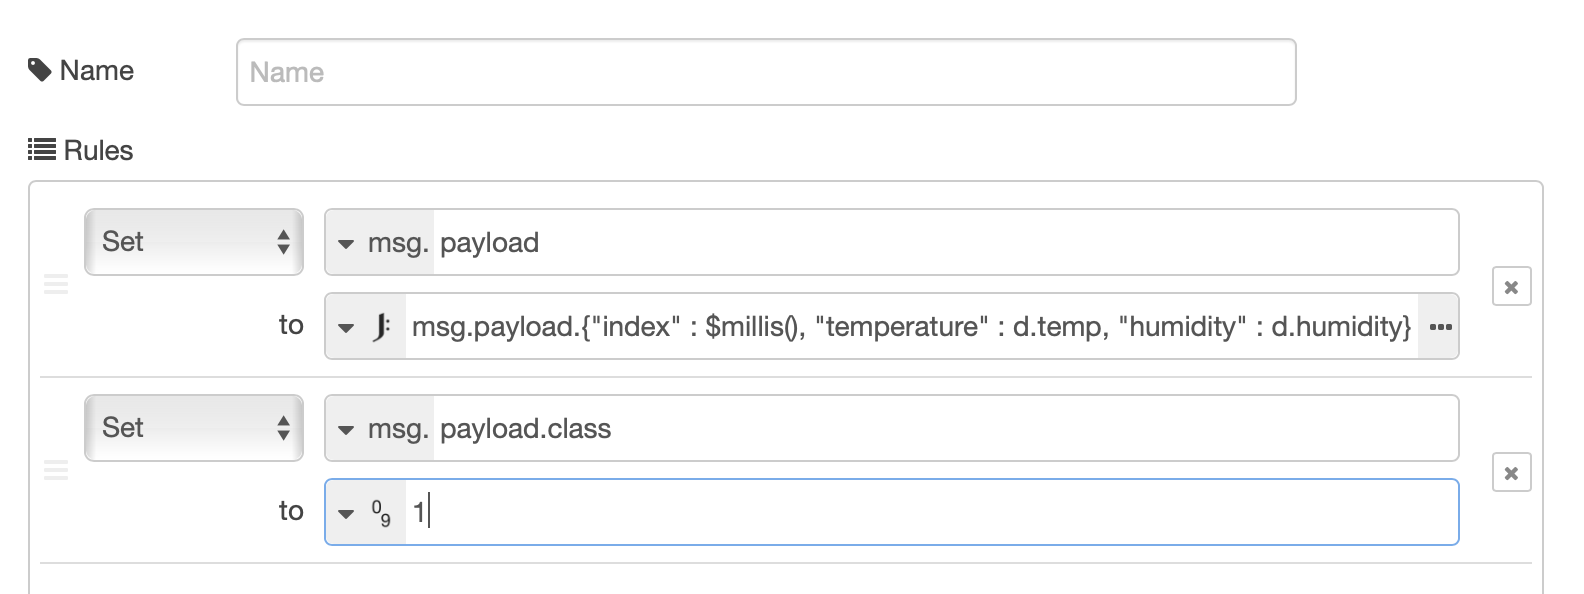
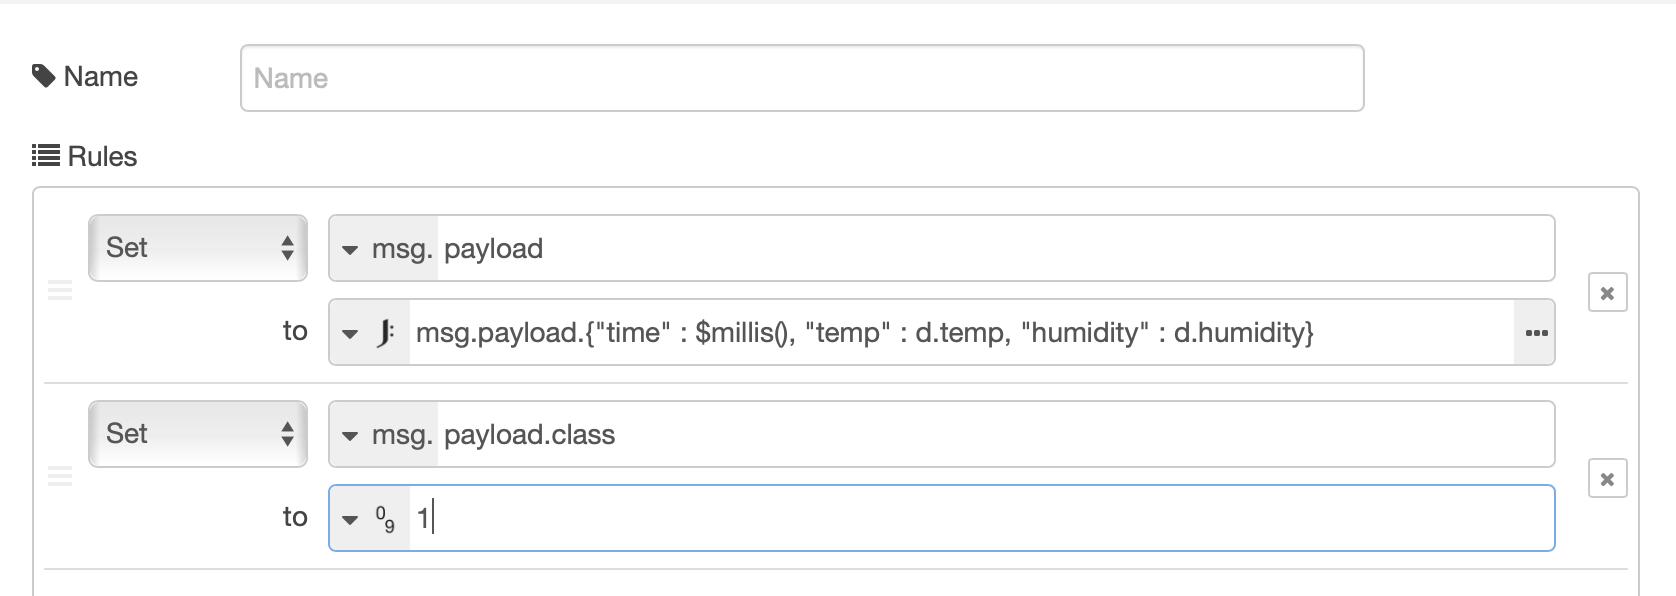
Refactored so training and historic databases use same property names

diff --git a/en/part4/TRAINING.md b/en/part4/TRAINING.md
@@ -42,7 +42,7 @@ To create the flow, open up the Node-RED editor running on the IBM Cloud (as use
 2. Connect the **ibmiot** node to the **change** node and then the **change** node to the **debug** node.  DO NOT connect the **cloudant out** node yet.
 3. Configure the **ibmiot** node to use the cloud service and listen to all JSON data from all devices as shown: ![nodered ibmiot node config](screenshots/nr-ibmiot-config.png)
 4. Configure the **change** node to have 2 set rules.  The first rule reformats the data received from the IoT platform, to flatten it and add a timestamp.  The second rule adds the class property and initially sets it to class 0:
-   - set msg.payload to JSONata expression ```msg.payload.{"index" : $millis(),"temperature" : d.temp, "humidity" : d.humidity}```
+   - set msg.payload to JSONata expression ```msg.payload.{"time" : $millis(),"temp" : d.temperature, "humidity" : d.humidity}```
    - set msg.payload.class to number 0  
    as shown : ![nodered change node config](screenshots/nr-change-config.png)
 5. Configure the **cloudant out** node to use the cloud service and set the database name to training and ensure the operation is set to insert and to only store msg.payload object as shown: ![nodered cloudant out node config](screenshots/nr-cloudant-config.png)
@@ -52,15 +52,15 @@ You should have a flow that looks like this: ![nodered flow](screenshots/nr-flow
 If your flow is not working then you can import the sample flow, which is also available in the [flows](flows) folder in part4 of the repo :
 
 ```JSON
-[{"id":"f46b4c67.73cb2","type":"ibmiot in","z":"deb0d57.1c46528","authentication":"boundService","apiKey":"","inputType":"evt","logicalInterface":"","ruleId":"","deviceId":"","applicationId":"","deviceType":"+","eventType":"+","commandType":"","format":"json","name":"IBM IoT","service":"registered","allDevices":true,"allApplications":"","allDeviceTypes":true,"allLogicalInterfaces":"","allEvents":true,"allCommands":"","allFormats":"","qos":0,"x":130,"y":100,"wires":[["e09fb3f3.79f538"]]},{"id":"e09fb3f3.79f538","type":"change","z":"deb0d57.1c46528","name":"","rules":[{"t":"set","p":"payload","pt":"msg","to":"msg.payload.{\"index\" : $millis(), \"temperature\" : d.temp, \"humidity\" : d.humidity} ","tot":"jsonata"},{"t":"set","p":"payload.class","pt":"msg","to":"0","tot":"num"}],"action":"","property":"","from":"","to":"","reg":false,"x":280,"y":100,"wires":[["84be0f97.8f672"]]},{"id":"84be0f97.8f672","type":"debug","z":"deb0d57.1c46528","name":"","active":true,"tosidebar":true,"console":false,"tostatus":false,"complete":"false","x":450,"y":140,"wires":[]},{"id":"5a8d3b21.87bb3c","type":"cloudant out","z":"deb0d57.1c46528","name":"","cloudant":"","database":"training","service":"bi-ESP8266WorkshopCourse-cloudantNoSQLDB","payonly":false,"operation":"insert","x":460,"y":100,"wires":[]}]
+[{"id":"f46b4c67.73cb2","type":"ibmiot in","z":"deb0d57.1c46528","authentication":"boundService","apiKey":"","inputType":"evt","logicalInterface":"","ruleId":"","deviceId":"","applicationId":"","deviceType":"+","eventType":"+","commandType":"","format":"json","name":"IBM IoT","service":"registered","allDevices":true,"allApplications":"","allDeviceTypes":true,"allLogicalInterfaces":"","allEvents":true,"allCommands":"","allFormats":"","qos":0,"x":130,"y":100,"wires":[["e09fb3f3.79f538"]]},{"id":"e09fb3f3.79f538","type":"change","z":"deb0d57.1c46528","name":"","rules":[{"t":"set","p":"payload","pt":"msg","to":"msg.payload.{\"time\" : $millis(), \"temp\" : d.temp, \"humidity\" : d.humidity} ","tot":"jsonata"},{"t":"set","p":"payload.class","pt":"msg","to":"0","tot":"num"}],"action":"","property":"","from":"","to":"","reg":false,"x":280,"y":100,"wires":[["84be0f97.8f672"]]},{"id":"84be0f97.8f672","type":"debug","z":"deb0d57.1c46528","name":"","active":true,"tosidebar":true,"console":false,"tostatus":false,"complete":"false","x":450,"y":140,"wires":[]},{"id":"5a8d3b21.87bb3c","type":"cloudant out","z":"deb0d57.1c46528","name":"","cloudant":"","database":"training","service":"bi-ESP8266WorkshopCourse-cloudantNoSQLDB","payonly":false,"operation":"insert","x":460,"y":100,"wires":[]}]
 ```
 
 This flow creates the following output, which we will write to the database:
 
 ```JSON
 {
-    "index":1546969694969,
-    "temperature":20,
+    "time":1546969694969,
+    "temp":20,
     "humidity":51,
     "class":0
 }

diff --git a/en/part4/JUPYTER.md b/en/part4/JUPYTER.md
@@ -93,8 +93,8 @@ df.createOrReplaceTempView('df')
 - Now we will create a new data frame for each training class.  In the next cell enter then run the following:
 
 ```python
-df_class_0 = spark.sql('select index, temperature, humidity, class from df where class = 0')
-df_class_1 = spark.sql('select index, temperature, humidity, class from df where class = 1')
+df_class_0 = spark.sql('select time, temp, humidity, class from df where class = 0')
+df_class_1 = spark.sql('select time, temp, humidity, class from df where class = 1')
 df_class_0.createOrReplaceTempView('df_class_0')
 df_class_1.createOrReplaceTempView('df_class_1')
 ```
@@ -105,7 +105,7 @@ For the rest of this section feel free to explore the different options availabl
 
 ```python
 # examine the data
-df_class_0.select('temperature', 'humidity').distinct().show()
+df_class_0.select('temp', 'humidity').distinct().show()
 ```
 
 - You can verify the database schema:
@@ -158,7 +158,7 @@ from pyspark.ml.evaluation import MulticlassClassificationEvaluator
 
 ```python
 # create binary classifier model
-vectorAssembler = VectorAssembler(inputCols=["humidity","temperature"],
+vectorAssembler = VectorAssembler(inputCols=["humidity","temp"],
                                   outputCol="features")
 lr = LogisticRegression(maxIter=1000).setLabelCol("class")
 pipeline = Pipeline(stages=[vectorAssembler, lr ])
@@ -190,15 +190,23 @@ binEval.evaluate(result)
 
     The following code shows how to read data from a database and apply the model to it.  The prediction column shows how the model classified the data.  As this example uses the training data, we have the class property available, so you can see that the prediction should line up with the class.
 
-    (Optionally) If you want to test your model try recording another set of data without the class property.  Within the dataset have records with the sensor in your hand and records where the sensor is not being held.  See how your model performs, especially in transition cases, where the sensor has just been released or has been held a short amount of time.  *Note: remove **class,** from the select statement if you are using data without the class property*:
-
 ```python
 # test the model
 #re-read data from cloudant
 new_df = readDataFrameFromCloudant('training')
 result = model.transform(new_df)
 result.createOrReplaceTempView('result')
-spark.sql("select humidity, temperature, class, prediction from result").show(50)
+spark.sql("select humidity, temp, class, prediction from result").show(50)
+```
+
+    (Optionally) If you want to test your model try recording another set of data without the class property - the historic data you are collecting is in the correct format for this.  Within the dataset have records with the sensor in your hand and records where the sensor is not being held.  See how your model performs, especially in transition cases, where the sensor has just been released or has been held a short amount of time.  *Note: remove **class,** from the select statement if you are using data without the class property*:
+
+```python
+#read historic data from cloudant
+new_df = readDataFrameFromCloudant('historicaldata1')
+result = model.transform(new_df)
+result.createOrReplaceTempView('result')
+spark.sql("select humidity, temp, prediction from result").show(50)
 ```
 
 ## Sample solution

diff --git a/en/part4/MODEL.md b/en/part4/MODEL.md
@@ -21,7 +21,7 @@ The values of C, w1 and w2 are the values from the Jupyter Notebook in the previ
 Here the coefficients are w1 and w2 and the intercept is the constant C.  Note the order of the weightings was specified by the order of the properties fed into the Vector Assembler:
 
 ```python
-vectorAssembler = VectorAssembler(inputCols=["humidity","temperature"], outputCol="features")
+vectorAssembler = VectorAssembler(inputCols=["humidity","temp"], outputCol="features")
 ```
 
 so the first coefficient is the weighting for the humidity property and the second coefficient is the weighting for the temperature property.
